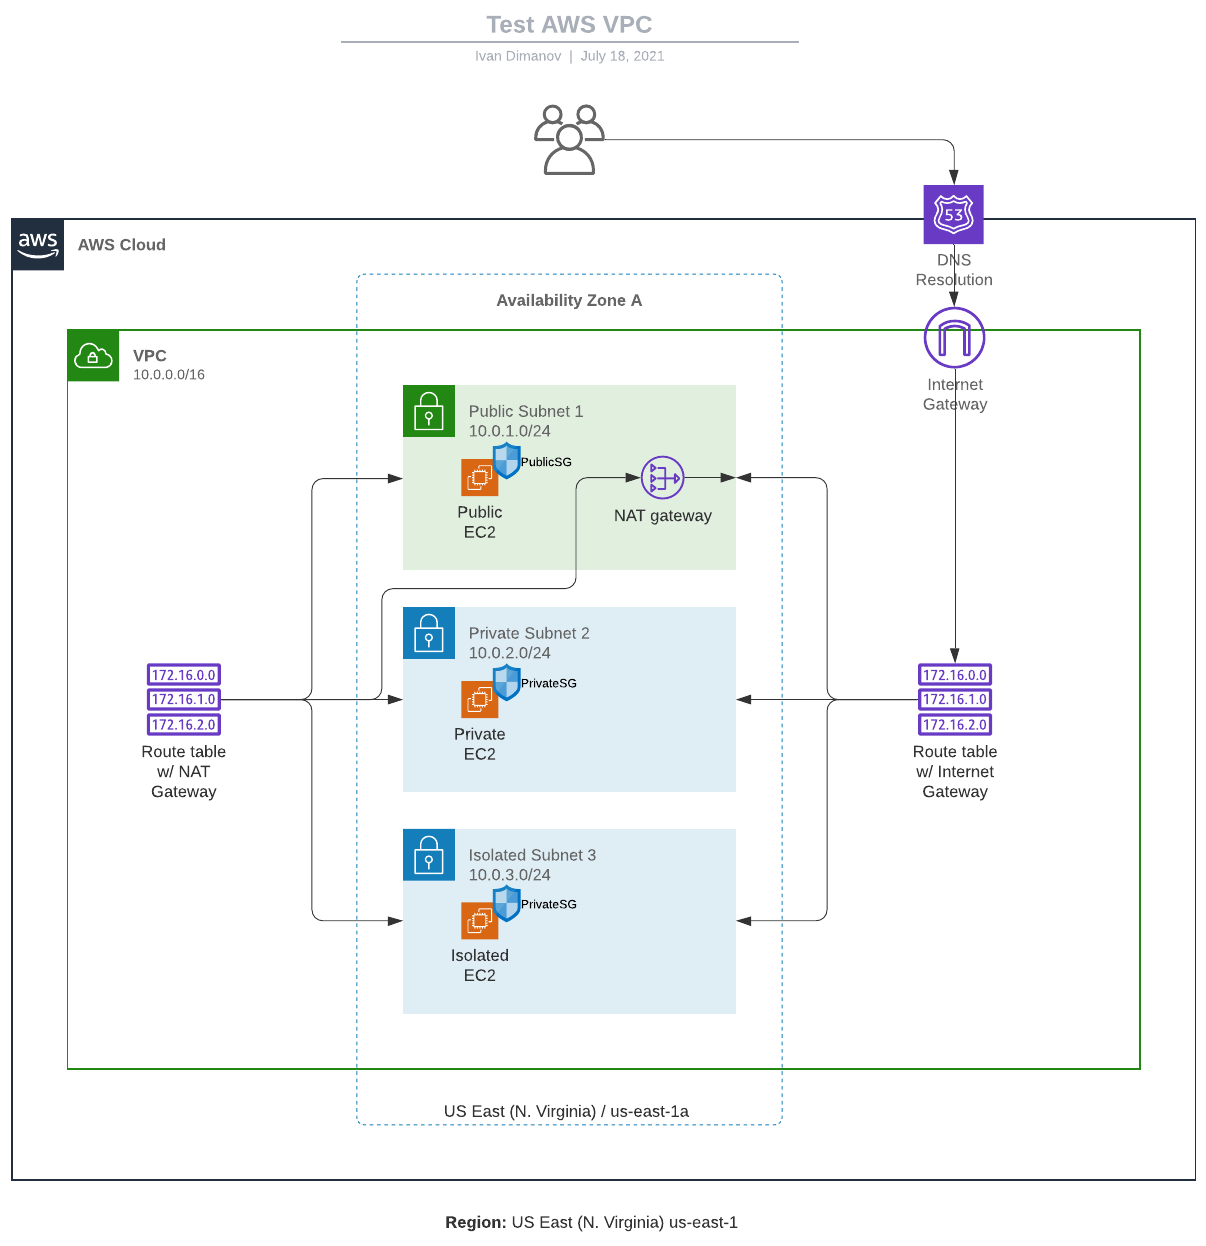
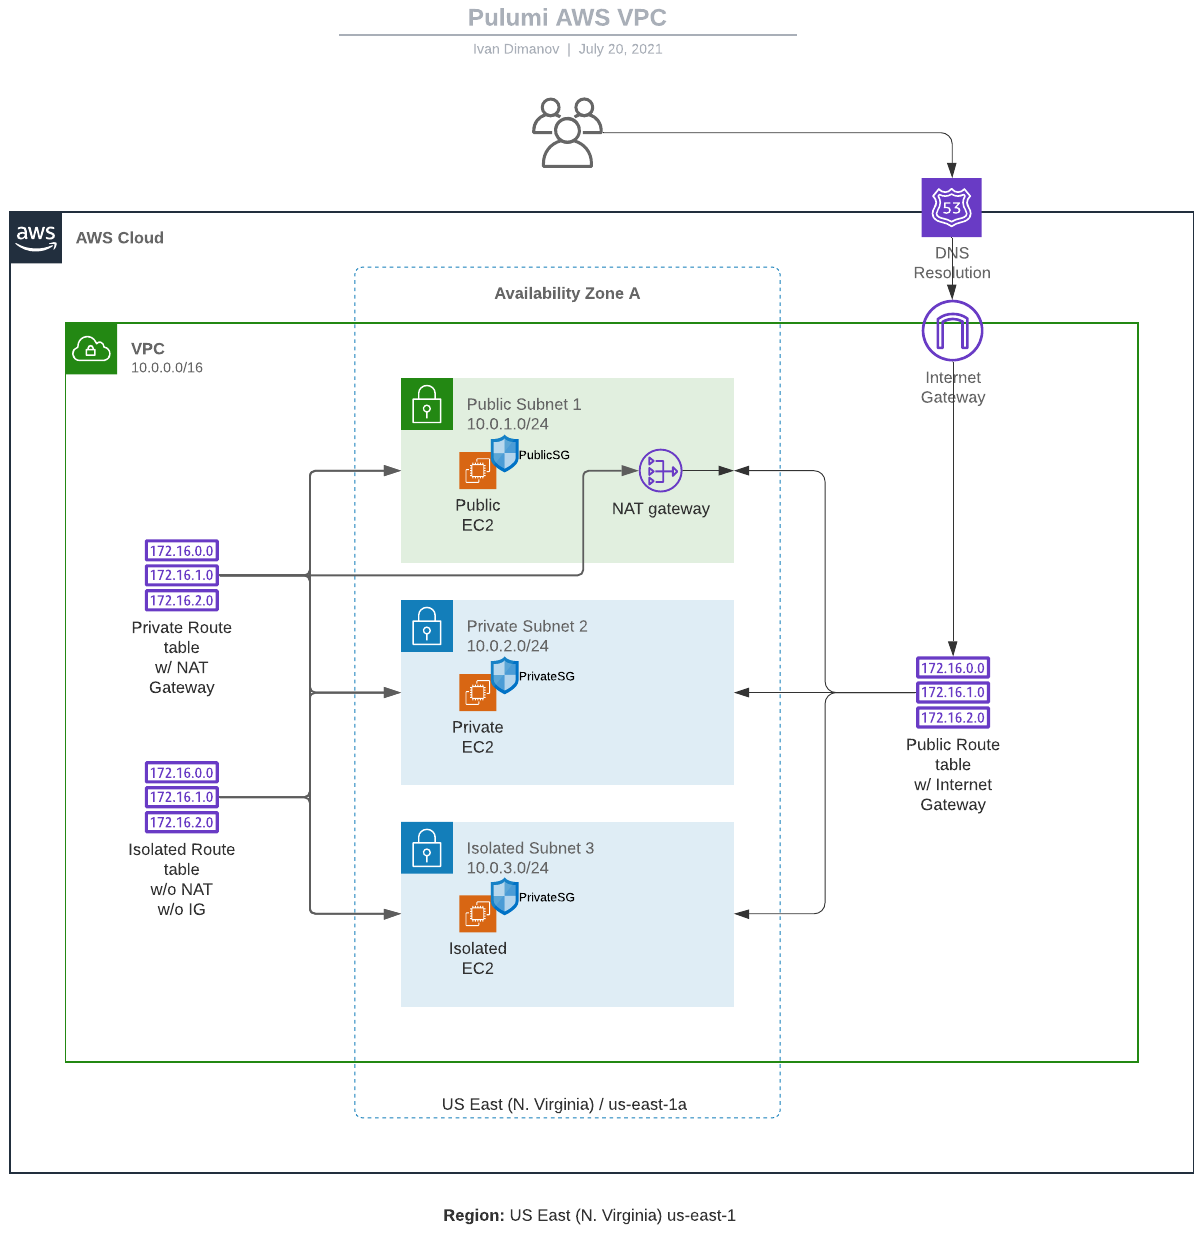
:book: Add description

diff --git a/README.md b/README.md
@@ -1,10 +1,35 @@
+# Pulumi AWS VPC
+Scripts for creating AWS VPC infra with Public, Private, and Isolated EC2 instances using [pulumi api](https://www.pulumi.com).
 
+## [Lucid Chart diagram](https://lucid.app/lucidchart/3564703c-5c4d-4aa7-9717-eefb5b514663/view)
+## [![Diagram](https://raw.githubusercontent.com/IvanDimanov/pulumi-aws-vpc/master/image.png)](https://lucid.app/lucidchart/3564703c-5c4d-4aa7-9717-eefb5b514663/view)
 
-pulumi-aws-vpc
+## Tech stack
+- [pulumi api](https://www.pulumi.com)
+- [TypeScript](https://www.typescriptlang.org)
 
+## Run locally
+Make sure you have [pulumi installed](https://www.pulumi.com/docs/get-started/aws/begin/#install-pulumi).
+```
+git clone git@github.com:IvanDimanov/pulumi-aws-vpc.git
+cd ./pulumi-aws-vpc
+npm ci
+cp .env.example .env
+cd ./infra
+pulumi up
+```
 
-Lucid Chart link
-https://lucid.app/lucidchart/3564703c-5c4d-4aa7-9717-eefb5b514663/edit?beaconFlowId=0C0C0C673783A352&page=0_0#
+Pulumi uses your AWS account to create the desired infrastructure
+so once the scrip is completed
+you can verify the result in your [AWS console](https://console.aws.amazon.com/ec2/v2/home?region=us-east-1#Instances:)
+or SSH into your new Public EC2 instance.
 
-
-
+## ENV VARs
+You can change any of the default ENV VARs from `.env` file.
+```
+AWS_PREFIX= Give your instance some unique name, useful for debugging
+AWS_SSH_KEY_NAME= Which SSH key you'd like to use when connecting to your Public EC2 instance
+SSH_IP= Make sure the Public EC2 instance accepts SSH connection only from this IP address (most likely your public IP)
+VPC_CIDR_BLOCK= What is the the CIDR you want your VPC to use, e.g. 10.0.0.0/16
+EC2_INSTANCE_TYPE= How powerful you'd like your EC2 instances to be, e.g. t2.micro
+```
